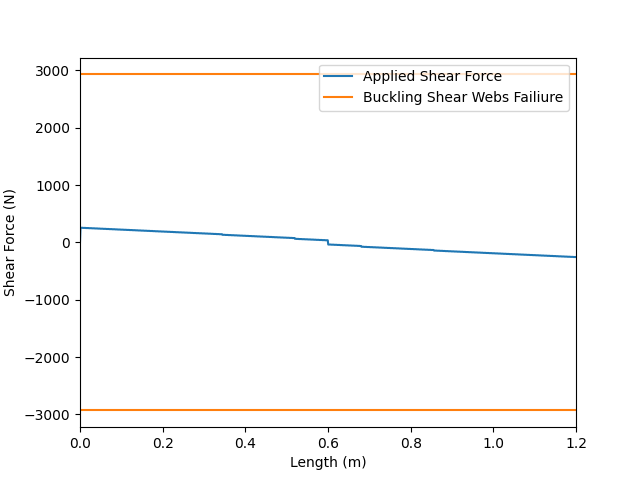
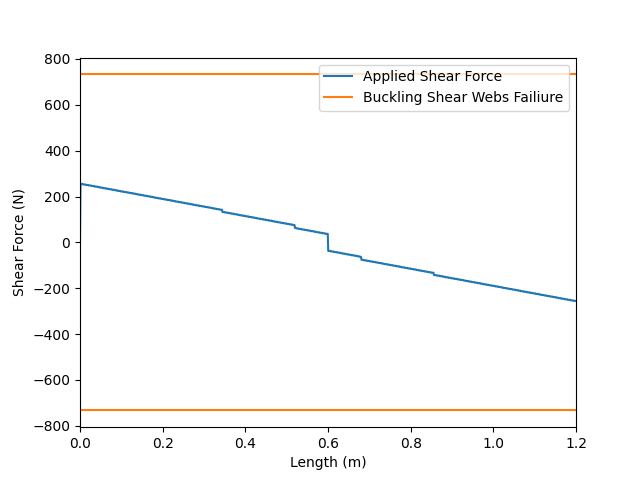
fixed shear buckling one last time

diff --git a/bridge.py b/bridge.py
@@ -68,7 +68,7 @@ def get_FOS(
     buckling_webs = calc.thin_plate_buckling(6, calc.th, calc.th + web_height - axis)
     
     buckling_shear = calc.thin_plate_buckling_shear(
-        calc.th * 2, web_height - calc.th, calc.bridge_length / (diaphragm_num + 1)
+        calc.th, web_height - calc.th, calc.bridge_length / (diaphragm_num + 1)
     )
 
     FOS_buckling_flange_between_webs = buckling_flange_between_webs / max_compression
